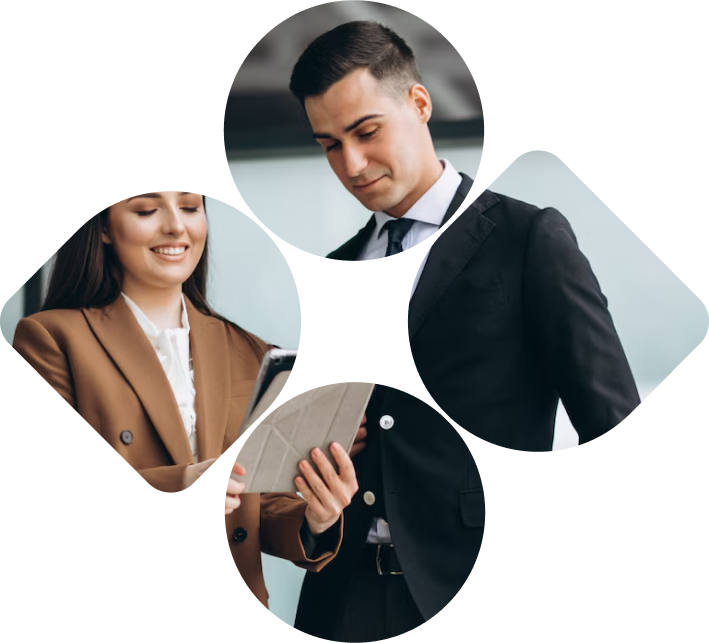
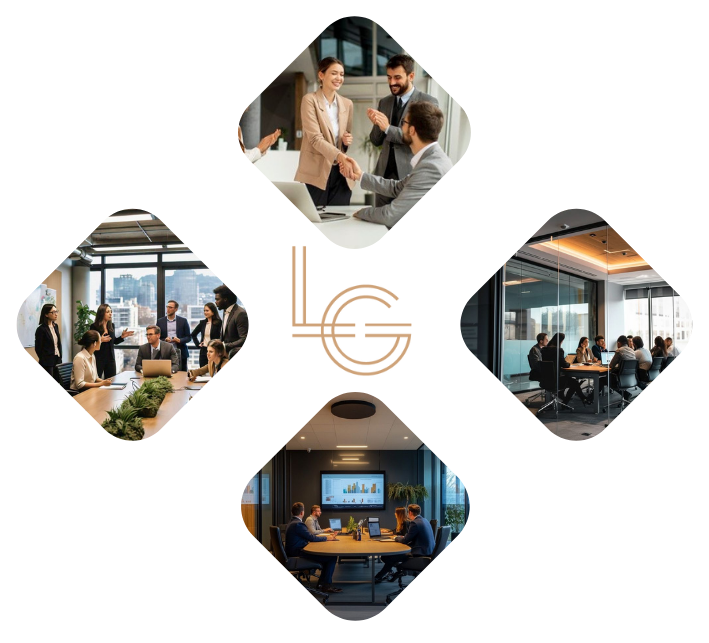
lease grid website changes - about us page, index page changes, website loading decreses

diff --git a/leasegrid/assets/js/custom.js b/leasegrid/assets/js/custom.js
@@ -25,7 +25,7 @@
         //Preloader
         $(window).on('load', function() {
             if ($('.preloader').length) {
-                $('.preloader').delay(2500).fadeOut(100);
+                $('.preloader').delay(0).fadeOut(100);
             }
         });
     }

diff --git a/leasegrid/about.php b/leasegrid/about.php
@@ -93,7 +93,7 @@
         
 
     <!-- Asset Solutions Section -->
-    <section class="about-asset-section" style="padding: 40px 0; text-align: justify;">
+    <!-- <section class="about-asset-section" style="padding: 40px 0; text-align: justify;">
         <div class="container">
             <div class="row justify-content-center">
                 <div class="col-lg-8">
@@ -104,7 +104,7 @@
                 </div>
             </div>
         </div>
-    </section>
+    </section> -->
     <!-- End of About Us content from paanap.com/about.html -->
 
    
@@ -127,7 +127,7 @@
                         <div class="about-details-one animate fadeInUp wow" data-wow-duration="1500ms" data-wow-delay="300ms">
                             <p class="lead" style="text-align: justify;">Leasegrid is a company decked with veteran professionals who provide unparalleled leasing solutions. We provide complete Asset Lifecycle Solutions, which are tailored to suit client's requirements. No matter what asset class you need to procure,we can assist you by customizing our solutions to help you optimize your cash flow. Whether you are looking for Plant and Machinery, servers ,furniture, electronics devices or any other kind of asset, Leasegrid can provide it to you on lease. Leasegrid is one of the provider of comprehensive leasing solutions for all your requirement.</p>
                         </div>
-                        <a href="our-specialised-solutions.php" class="btn btn-secondary btn-theme">Learn More <span>+</span></a>
+                        <!-- <a href="our-specialised-solutions.php" class="btn btn-secondary btn-theme">Learn More <span>+</span></a> -->
                     </div>
                 </div>
             </div>
@@ -270,7 +270,7 @@
                             <h2 class="heading-title">Leasing <span>Assets</span></h2>
                         </div>
                         <p class="lead">Leasegrid offers a full range of consultancy & training for data consultation and strategic business solutions.</p>
-                        <a href="about.php" class="btn btn-light btn-theme">View More <span>+</span></a>
+                        <!-- <a href="about.php" class="btn btn-light btn-theme">View More <span>+</span></a> -->
                     </div>
                 </div>
                 <div class="col-lg-8">

diff --git a/leasegrid/index.php b/leasegrid/index.php
@@ -45,7 +45,7 @@
       <div class="banner-slide-item-one">
         <div class="banner-image-one">
           <img
-            src="assets/images/background/banner-one-image.jpg"
+            src="assets/images/background/banner-one-image.webp"
             alt="banner-image" />
         </div>
         <div class="container-fluid">
@@ -72,7 +72,7 @@
       <div class="banner-slide-item-one">
         <div class="banner-image-one">
           <img
-            src="assets/images/background/artboard2.png"
+            src="assets/images/background/artboard2.webp"
             alt="banner-image" />
         </div>
         <div class="container-fluid">
@@ -98,7 +98,7 @@
       <div class="banner-slide-item-one">
         <div class="banner-image-one">
           <img
-            src="assets/images/about/modernoffice.jpg"
+            src="assets/images/about/modernoffice.webp"
             alt="banner-image" />
         </div>
         <div class="container-fluid">
